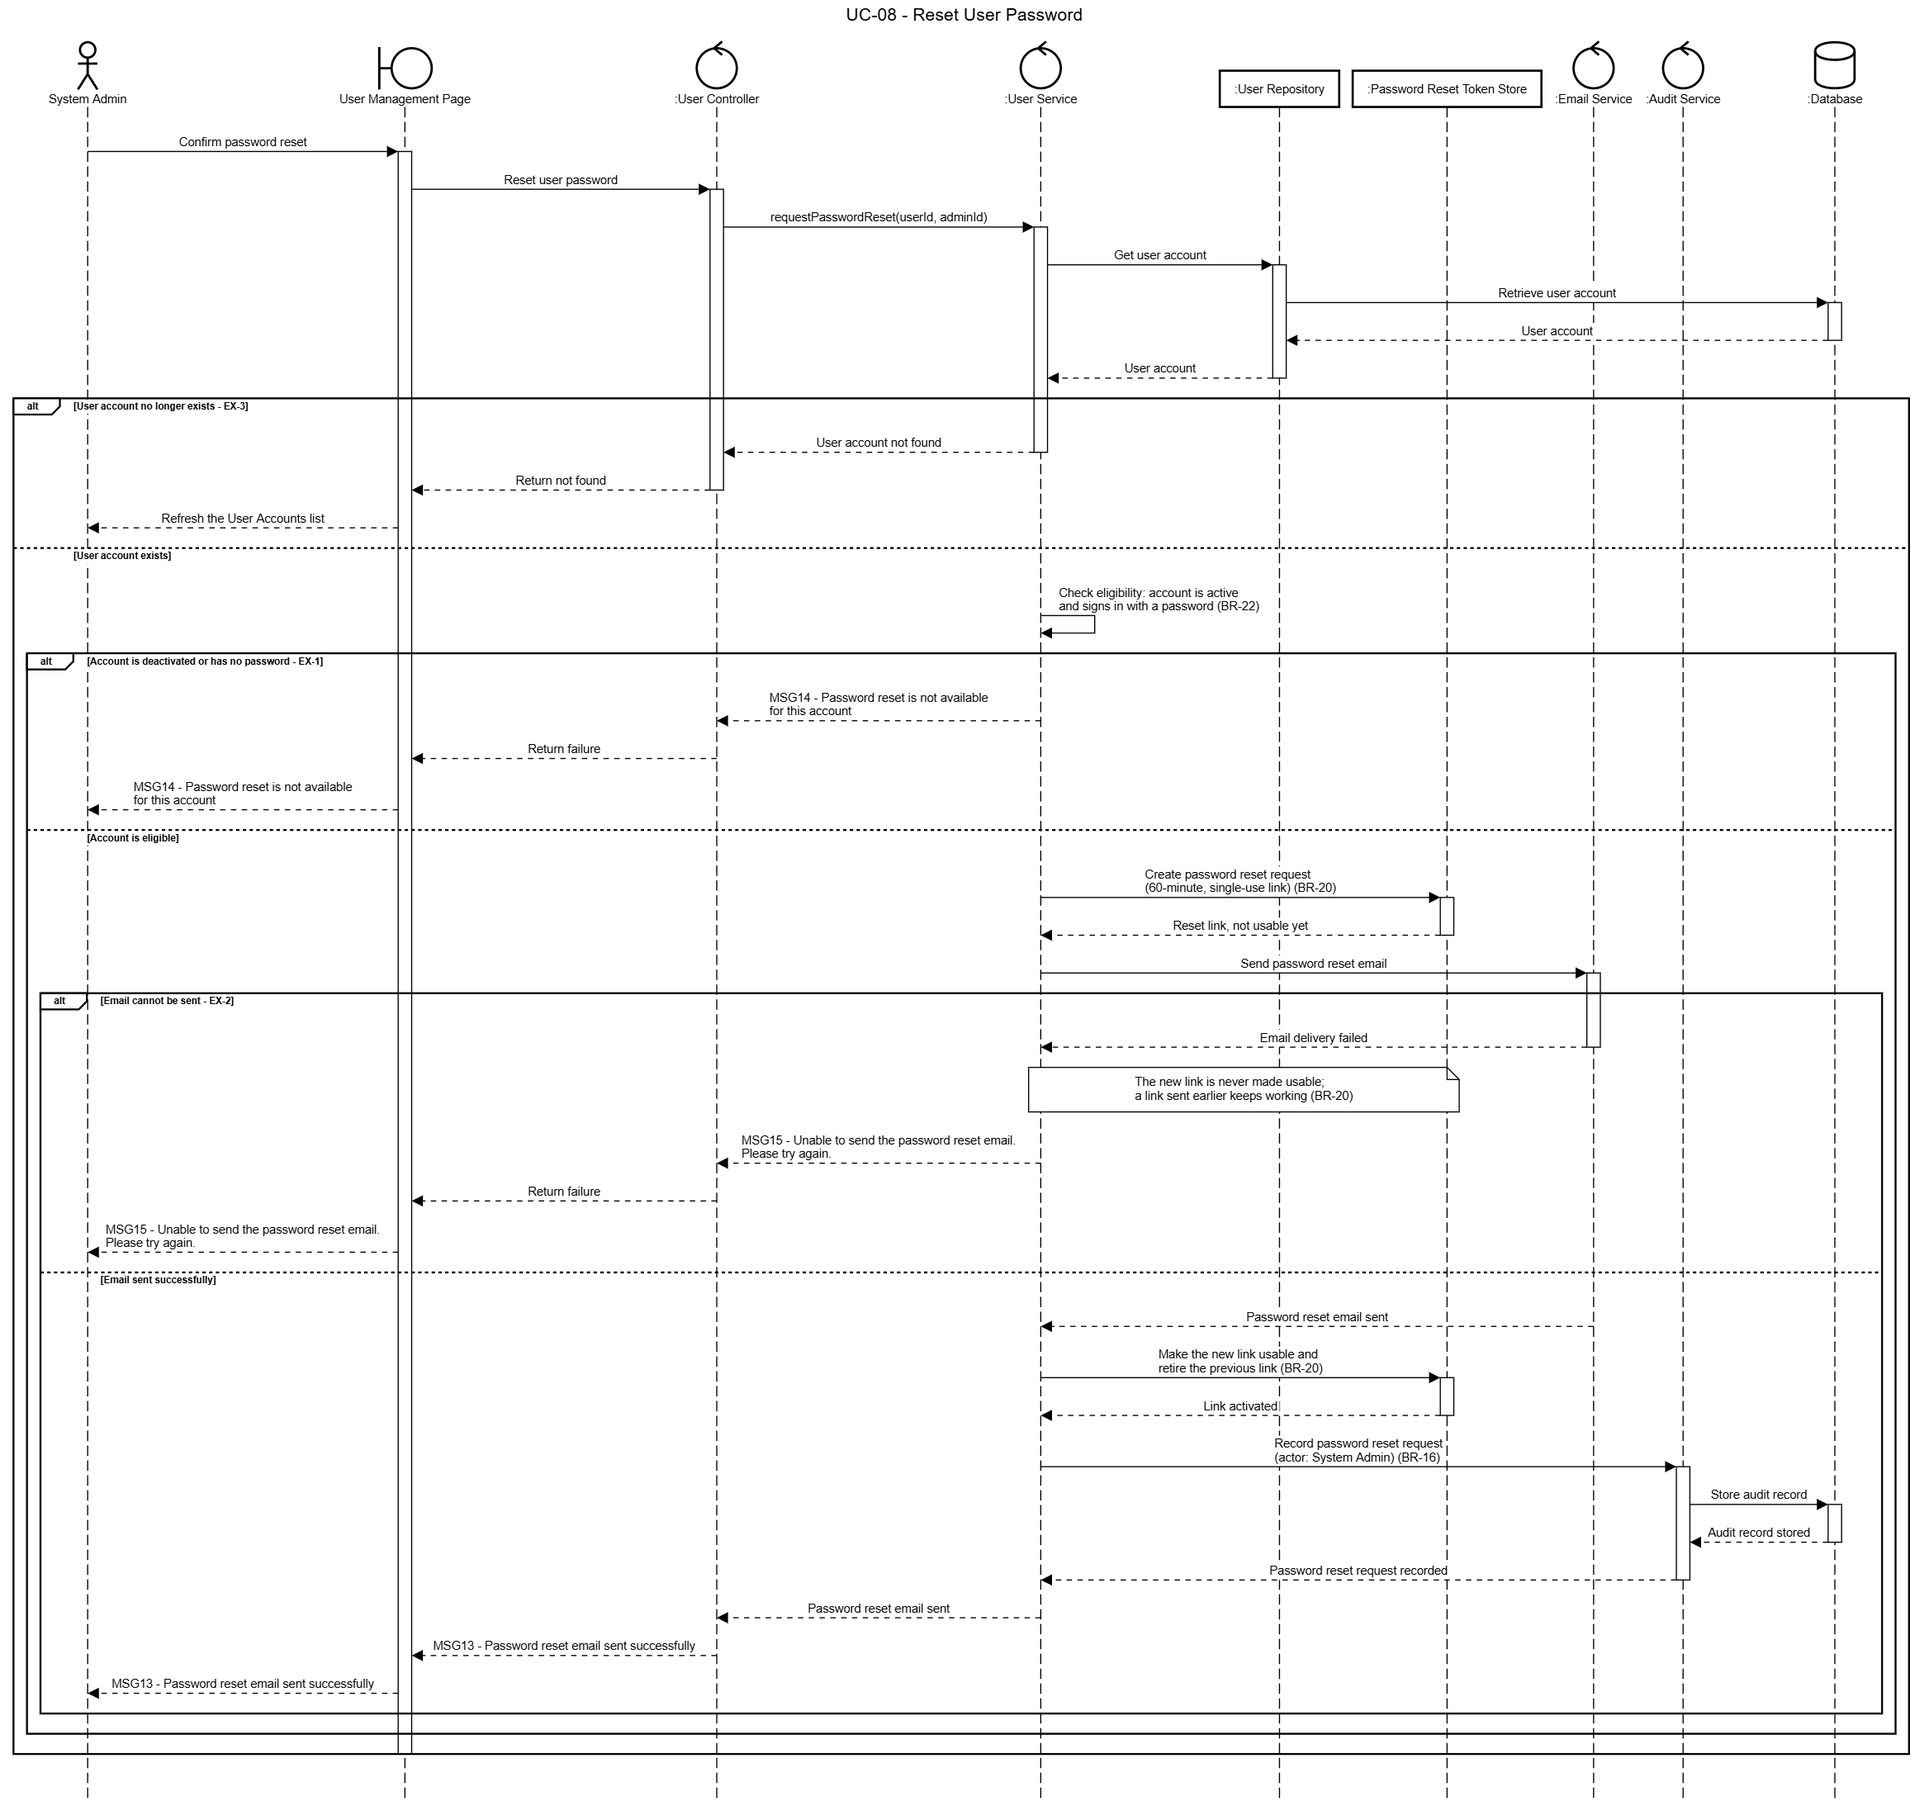
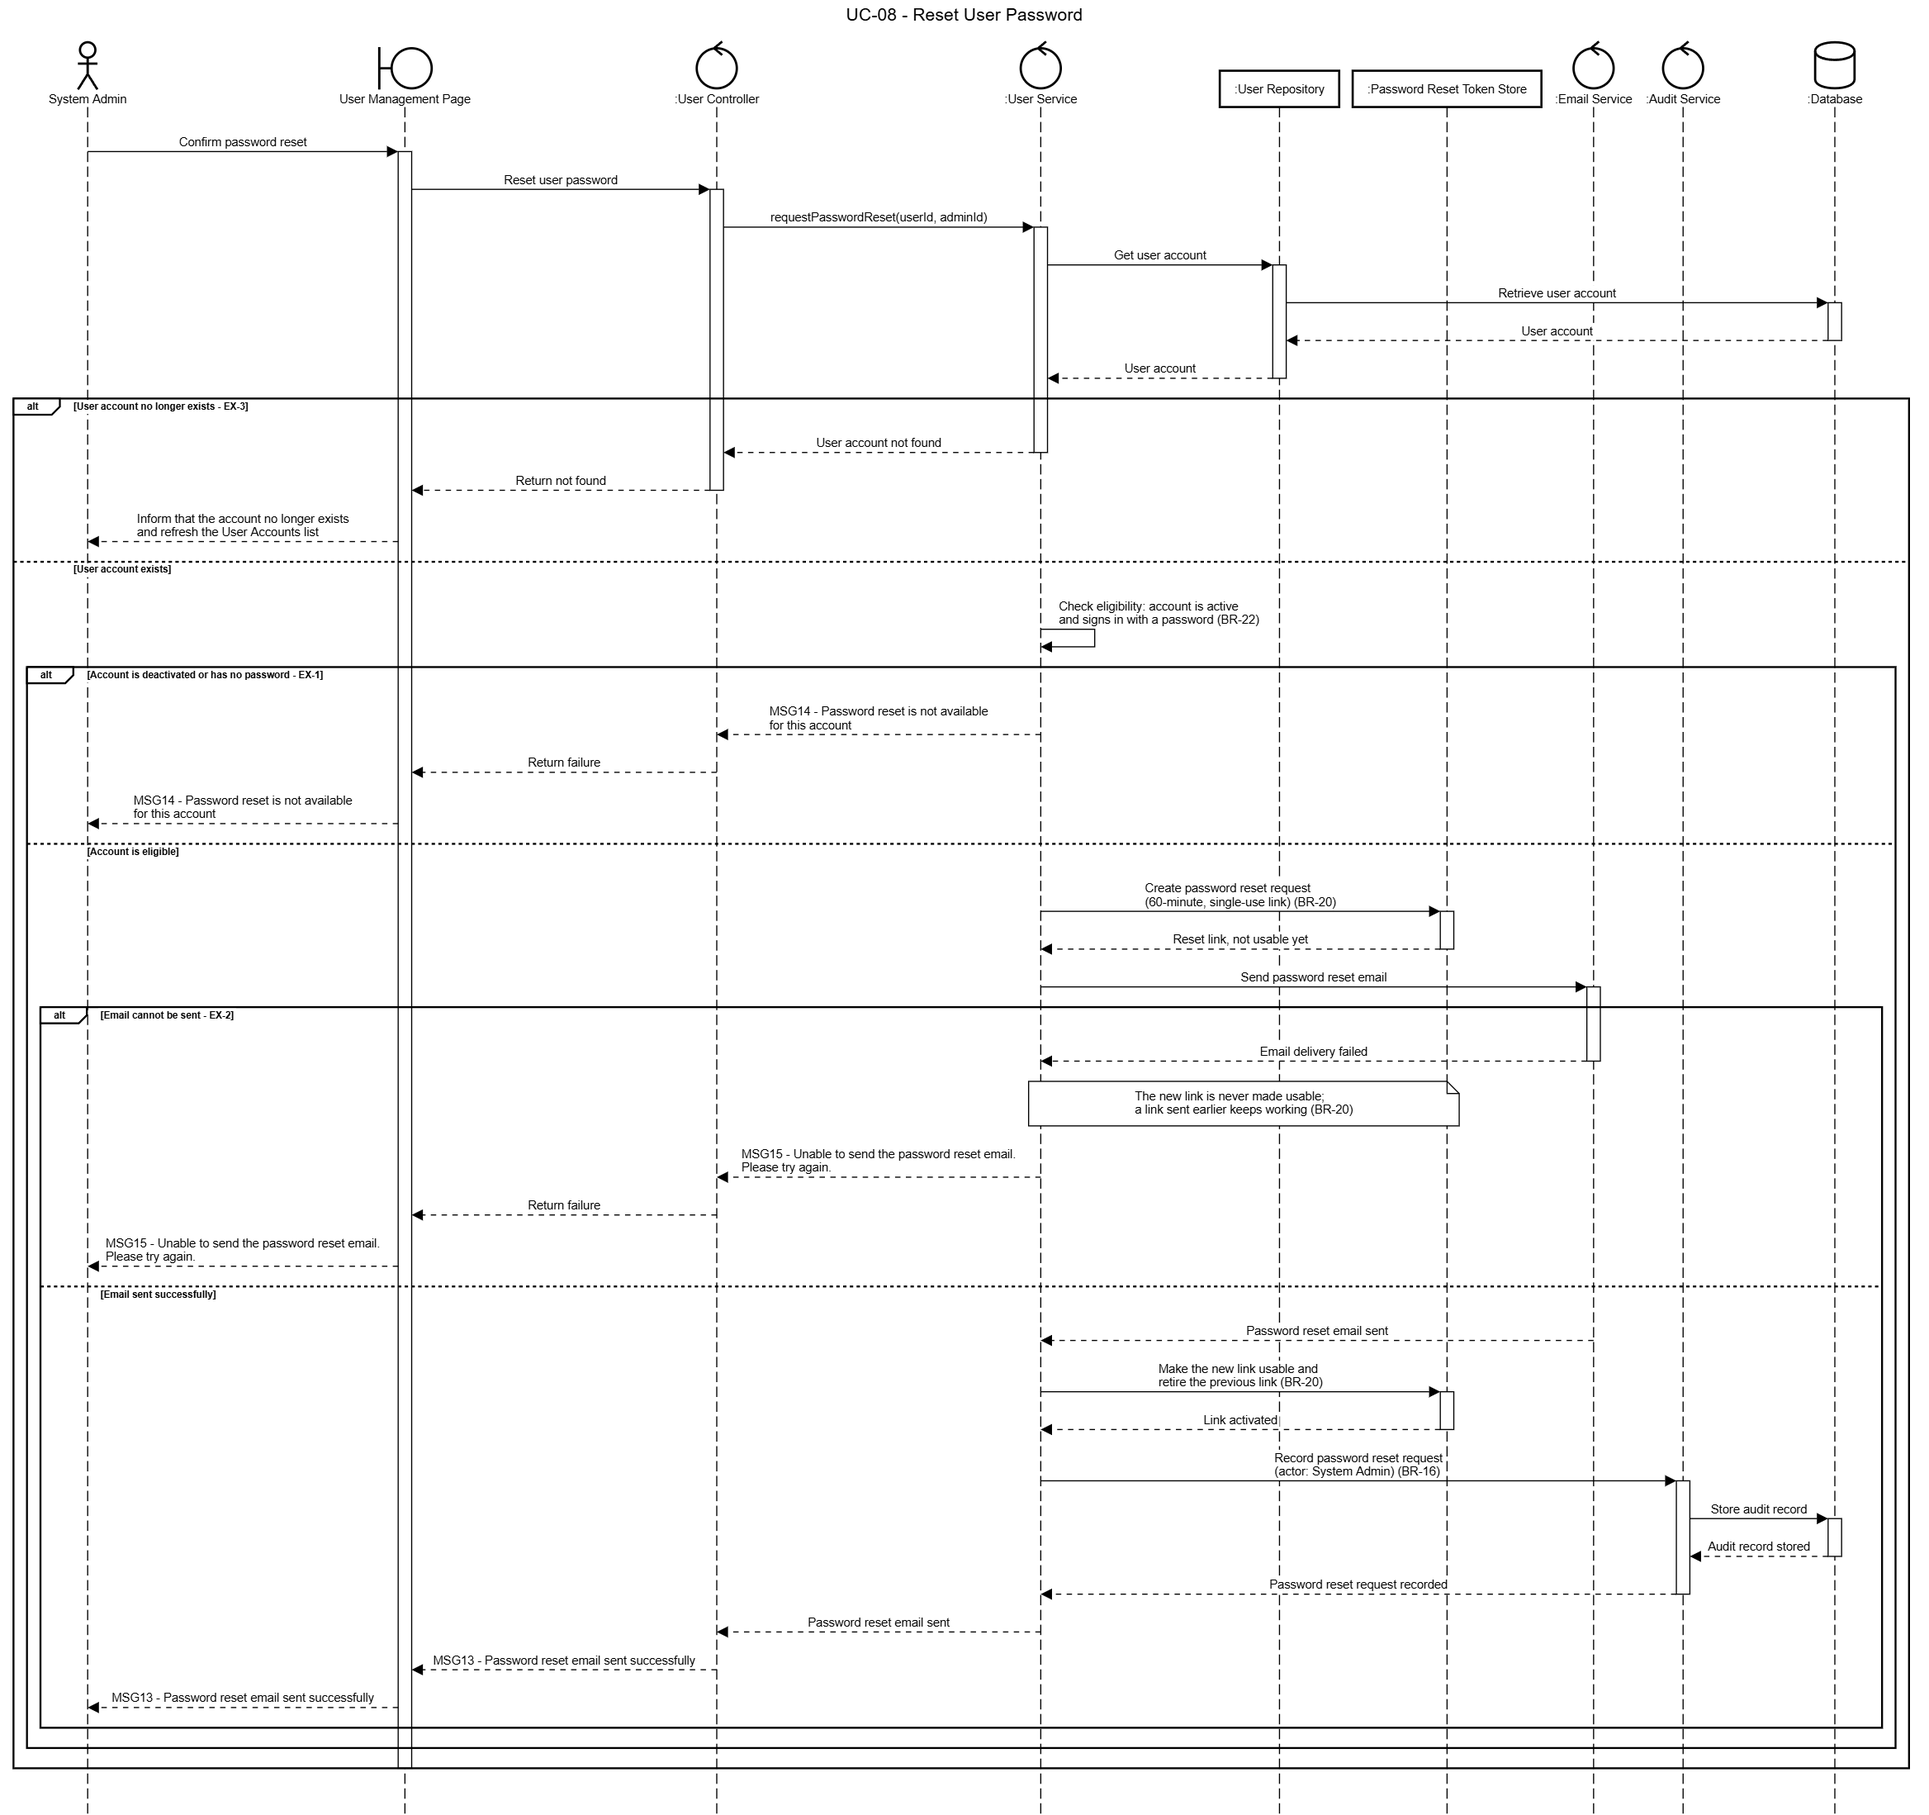
Sửa các điểm review của PR #67
- Class diagram 02b: bỏ isPasswordResetEligible (code kiểm thẳng, không có
  method riêng), thêm AuthController.signOut (AF-1), TokenService là
  <<service>>; README cập nhật bảng PHẦN D, C5 thêm hai mã audit của UC-08,
  sửa câu ở F3 và tiêu đề "Cần quyết".
- Đặc tả: quy tắc mật khẩu không còn dẫn chiếu BR-22 (BR-22 là điều kiện
  đủ), EX-3 nói rõ quản trị viên được báo tài khoản không còn tồn tại, EX-5
  gồm cả nhập lại không khớp và mô tả đúng cách hiện MSG94, EX-1 mô tả việc
  nêu lý do cụ thể khi danh sách cũ, EX-4 thêm bước 15 (gửi đồng thời), AF-1
  nêu nhánh đăng xuất thành công, EX-6 bỏ câu chữ kỹ thuật.
- Business rules: hiệu lực 60 phút tính từ khi tạo liên kết; thêm trường hợp
  thu hồi khi tài khoản đổi trong lúc đang gửi email.
- Sequence diagram: cập nhật nhãn EX-3, quy tắc mật khẩu, ghi chú gửi đồng thời.

diff --git a/docs/01-requirements/05-use-case-specifications.md b/docs/01-requirements/05-use-case-specifications.md
@@ -474,7 +474,7 @@ The account owner continues the use case from the email. No sign-in is required:
 11. The system displays the new password form.
 12. The user enters the new password and its confirmation and submits them.
 13. The system verifies that the link is valid: it exists, it has not expired, it has not been used, and no newer link has replaced it (BR-20).
-14. The system validates the new password against the password rule (BR-22).
+14. The system validates the new password: it must follow the same password rule as account creation (UC-05) and match its confirmation.
 15. The system marks the link as used, so it cannot be used again (BR-20).
 16. The system verifies that the account is still eligible: it is active and it signs in with a password (BR-03, BR-22).
 17. The system replaces the password with the new one (BR-01) and ends every active session of the account (BR-20).
@@ -486,15 +486,16 @@ The account owner continues the use case from the email. No sign-in is required:
 - **AF-1: The Browser Is Already Signed In**
   1. At Step 19, the browser used to complete the reset still has a signed-in session (of this or another account).
   2. The system signs that session out before showing the sign-in page.
-  3. If the sign-out cannot be completed, the system still displays MSG92 – "Password reset successfully. Please sign in with your new password." and also displays MSG06 – "Unable to sign out. Please try again." The browser's session remains signed in, and the new password is already in effect.
-  4. The use case ends.
+  3. If the sign-out succeeds, the flow resumes at Step 19.
+  4. If the sign-out cannot be completed, the system still displays MSG92 – "Password reset successfully. Please sign in with your new password." and also displays MSG06 – "Unable to sign out. Please try again." The browser's session remains signed in, and the new password is already in effect.
+  5. The use case ends.
 
 #### Luồng ngoại lệ / Lỗi (Exception Flows):
 
 - **EX-1: User Account Is Not Eligible for Password Reset**
-  1. At Step 4 of the Main Flow, the system determines that the selected account is deactivated, or that it has no password because it only signs in with Google (BR-22).
+  1. At Step 4 of the Main Flow, the system determines that the selected account is deactivated, or that it has no password because it only signs in with Google (BR-22). The User Accounts list already makes Reset Password unavailable for such accounts, so this happens when the list is out of date.
   2. No password reset link is created and no email is sent.
-  3. The system displays MSG14 – "Password reset is not available for this account."
+  3. The system displays MSG14 – "Password reset is not available for this account." When the system can tell which reason applies, it updates the account in the list and states the reason instead (the account is deactivated, or it signs in with Google only).
   4. The use case ends.
 
 - **EX-2: Password Reset Email Cannot Be Sent**
@@ -506,25 +507,25 @@ The account owner continues the use case from the email. No sign-in is required:
 - **EX-3: User Account No Longer Exists**
   1. At Step 4 of the Main Flow, the system cannot find the selected account.
   2. No password reset link is created and no email is sent.
-  3. The system refreshes the User Accounts list.
+  3. The system informs the System Admin that the account no longer exists and refreshes the User Accounts list. This situation has no message code.
   4. The use case ends.
 
 - **EX-4: Password Reset Link Is Not Valid**
-  1. At Step 13 or Step 16, the system determines that the link is unknown, has expired, has already been used, has been replaced by a newer link, or belongs to an account that is now deactivated or has no password (BR-20, BR-22).
+  1. At Step 13, 15 or 16, the system determines that the link is unknown, has expired, has already been used (including by a simultaneous submission), has been replaced by a newer link, or belongs to an account that is now deactivated or has no password (BR-20, BR-22).
   2. The password is not changed. A link that reached Step 15 is used up.
   3. The system hides the new password form and displays MSG93 – "The password reset link is invalid or has expired. Please contact an administrator." It does not say which of these reasons applies.
   4. The use case ends.
 
 - **EX-5: New Password Is Invalid**
-  1. At Step 14, the new password does not satisfy the password rule.
+  1. At Step 14, the new password does not satisfy the password rule, or the confirmation does not match it.
   2. The password is not changed and the link remains usable.
-  3. The system displays MSG94 – "Invalid new password." with the reason next to the new password field.
+  3. The system shows the reason next to the field concerned. A password that breaks the password rule is MSG94 – "Invalid new password.", shown through its field reason (at least 12 characters); a confirmation that does not match is reported before the link is checked.
   4. The user corrects the new password and resubmits it.
   5. The flow resumes at Step 13.
 
 - **EX-6: Password Reset Page Opened Without a Reset Code**
   1. At Step 11, the page has no reset code. This happens when the link is incomplete, or when the page is reloaded or restored after the code was removed from the address bar.
-  2. The system does not contact the server and does not say that the link has expired, because the link itself may still be usable.
+  2. The system does not check the link and does not say that it has expired, because the link itself may still be usable.
   3. The system displays MSG129 – "No password reset code was found. Please open the link in the email again." with a hint that the link still works if it has not been used, is less than 60 minutes old and has not been replaced by a newer link.
   4. The use case ends. Opening the link from the email again starts a new execution at Step 10.
 
@@ -534,7 +535,8 @@ The account owner continues the use case from the email. No sign-in is required:
 - **BR-10, BR-21**: The reset link and the existing password are never displayed in User Management.
 - **BR-16**: Both the reset request (actor: System Admin) and the completed reset (actor: account owner) are recorded in the audit log.
 - **BR-20**: How the link is limited (validity, single use, one usable link per account, revocation, ending sessions) is detailed under *Quy tắc TrustCabinet đã được BA xác nhận — UC-08* in [06-business-rules.md](06-business-rules.md).
-- **BR-22**: Eligibility means the account is active and signs in with a password; the new password follows the same rule as account creation. See the same section.
+- **BR-22**: Eligibility means the account is active and signs in with a password. See the same section.
+- **Password rule**: the new password follows the same rule as account creation (UC-05), recorded in the same section.
 
 ---
 

diff --git a/docs/07-classdiagram/README.md b/docs/07-classdiagram/README.md
@@ -317,6 +317,8 @@ Code có **một** method chung, phân biệt bằng tham số `action` nhận m
 - `user.updated`
 - `user.deactivated`
 - `user.reactivated`
+- `user.password_reset_requested` (UC-08, người thực hiện là quản trị viên)
+- `user.password_reset` (UC-08, người thực hiện là chính chủ tài khoản)
 
 Vẽ một method chung sẽ sát thực tế hơn, và cũng thể hiện đúng ý định: audit log là bảng chung cho
 toàn hệ thống, các story sau (họp, tài liệu, biên bản) sẽ ghi vào cùng chỗ với cùng method này.
@@ -361,11 +363,11 @@ Bản vẽ 02 bỏ các thành phần UC-08 cũ và có ghi chú trỏ sang 02b.
 | `UserManagementPage.resetUserPassword()` | giữ, thêm boundary thứ hai `ResetPasswordPage.submitNewPassword()` — nửa sau của UC-08, người dùng đặt mật khẩu bằng liên kết |
 | `UserController.resetPassword(userId)` | `UserController.requestPasswordReset(userId)` + `AuthController.resetPassword(resetCode, newPassword)` (ẩn danh) |
 | `UserService.initiatePasswordReset(userId)` | `requestPasswordReset(userId, actorId)` + `resetPassword(resetCode, newPassword)` |
-| `UserService.isPasswordResetEligible(user)` | giữ (private): đang hoạt động **và** có mật khẩu (BR-22) |
+| `UserService.isPasswordResetEligible(user)` | bỏ — điều kiện "đang hoạt động **và** có mật khẩu" (BR-22) được kiểm thẳng trong `requestPasswordReset` và `resetPassword`, không có method riêng |
 | `AuthenticationService.createPasswordResetRequest(userId)` | `PasswordResetTokenStore` — `create` / `activate` / `peek` / `consume` / `revoke` |
 | `EmailService.sendPasswordResetEmail(user)` | `PasswordResetEmailSender.send(...)`: bool — gửi hỏng là một nhánh nghiệp vụ (MSG15), không phải exception |
 | `AuditService.recordPasswordReset(userId)` | `AuditService.record(action, objectType, objectId, actorId, details)` |
-| — | thêm `TokenService.revokeAllForUser()` (kết thúc phiên khi đặt lại xong) và `PasswordHasher.hash()` |
+| — | thêm `<<service>> TokenService.revokeAllForUser()` (kết thúc phiên khi đặt lại xong), `PasswordHasher.hash()` và `AuthController.signOut()` (AF-1: trình duyệt đang đăng nhập) |
 
 **Mâu thuẫn "hai đường cho cùng một việc"** (`UserService` vừa gọi `EmailService` vừa gọi
 `AuthenticationService`) được giải theo code: `UserService` điều phối, gọi riêng
@@ -469,7 +471,7 @@ Bản vẽ có method này ở cả 4 tầng (`Controller`, `Service`, `Reposito
 
 Đã thống nhất không làm trong sprint này.
 
-**Cần sửa — chọn một**, giống cách đã xử lý UC-08 ở bản vẽ 02:
+**Cần sửa — chọn một** (UC-08 ở bản vẽ 02 từng có cùng hai lựa chọn này, xem [PHẦN D](#phần-d--uc-08-đặt-lại-mật-khẩu-đã-tách-sang-bản-vẽ-02b)):
 
 - Bỏ hẳn 4 method đó khỏi bản vẽ, hoặc
 - Thêm ghi chú `<<chưa implement>>` lên từng cái.
@@ -550,7 +552,7 @@ lý do bảng này tồn tại. Để nó không ở đâu cả mới là không
 - [ ] F5 — thêm `TokenService` (bản vẽ 03) **+ bổ sung participant đó vào sequence diagram UC-10**
 - [ ] F6 — thêm `wouldRemoveTheLastAdminCapability()` (bản vẽ 03)
 
-**Cần quyết (1):**
+**Cần quyết (đã xong):**
 
 - [x] D — UC-08: đã tách bản vẽ riêng `feature-02b-password-reset` (04/10/2026)
 

diff --git a/docs/01-requirements/06-business-rules.md b/docs/01-requirements/06-business-rules.md
@@ -48,7 +48,7 @@ yêu cầu thêm quyền riêng để đăng nhập.
 trong bảng giữ nguyên.
 
 - **BR-20 — liên kết đặt lại mật khẩu:**
-  - hiệu lực **60 phút** kể từ khi email được gửi;
+  - hiệu lực **60 phút** kể từ khi liên kết được tạo (ngay trước khi gửi email);
   - **dùng một lần**: liên kết bị tiêu ngay khi được gửi kèm một mật khẩu mới hợp lệ, kể cả khi sau đó
     hệ thống phát hiện tài khoản không còn đủ điều kiện; mật khẩu mới sai quy tắc thì liên kết **chưa**
     bị tiêu, người dùng sửa rồi gửi lại;
@@ -57,7 +57,8 @@ trong bảng giữ nguyên.
   - gửi email thất bại thì liên kết mới **không** dùng được, còn liên kết cũ (nếu có) **vẫn** dùng
     được;
   - liên kết đang chờ bị thu hồi khi tài khoản bị **vô hiệu hoá** (UC-07), **đổi email** (UC-06) hoặc
-    **đổi vai trò hệ thống** (UC-09); đổi họ tên thì không;
+    **đổi vai trò hệ thống** (UC-09); đổi họ tên thì không. Nếu tài khoản bị vô hiệu hoá hoặc đổi email
+    ngay trong lúc email đang được gửi, liên kết vừa gửi cũng bị thu hồi;
   - yêu cầu đặt lại mật khẩu **không** đổi gì trên tài khoản: mật khẩu hiện tại vẫn dùng được và
     không ai bị đăng xuất cho tới khi liên kết được dùng;
   - đặt mật khẩu mới thành công thì **mọi phiên đăng nhập** của tài khoản bị kết thúc, và hệ thống
